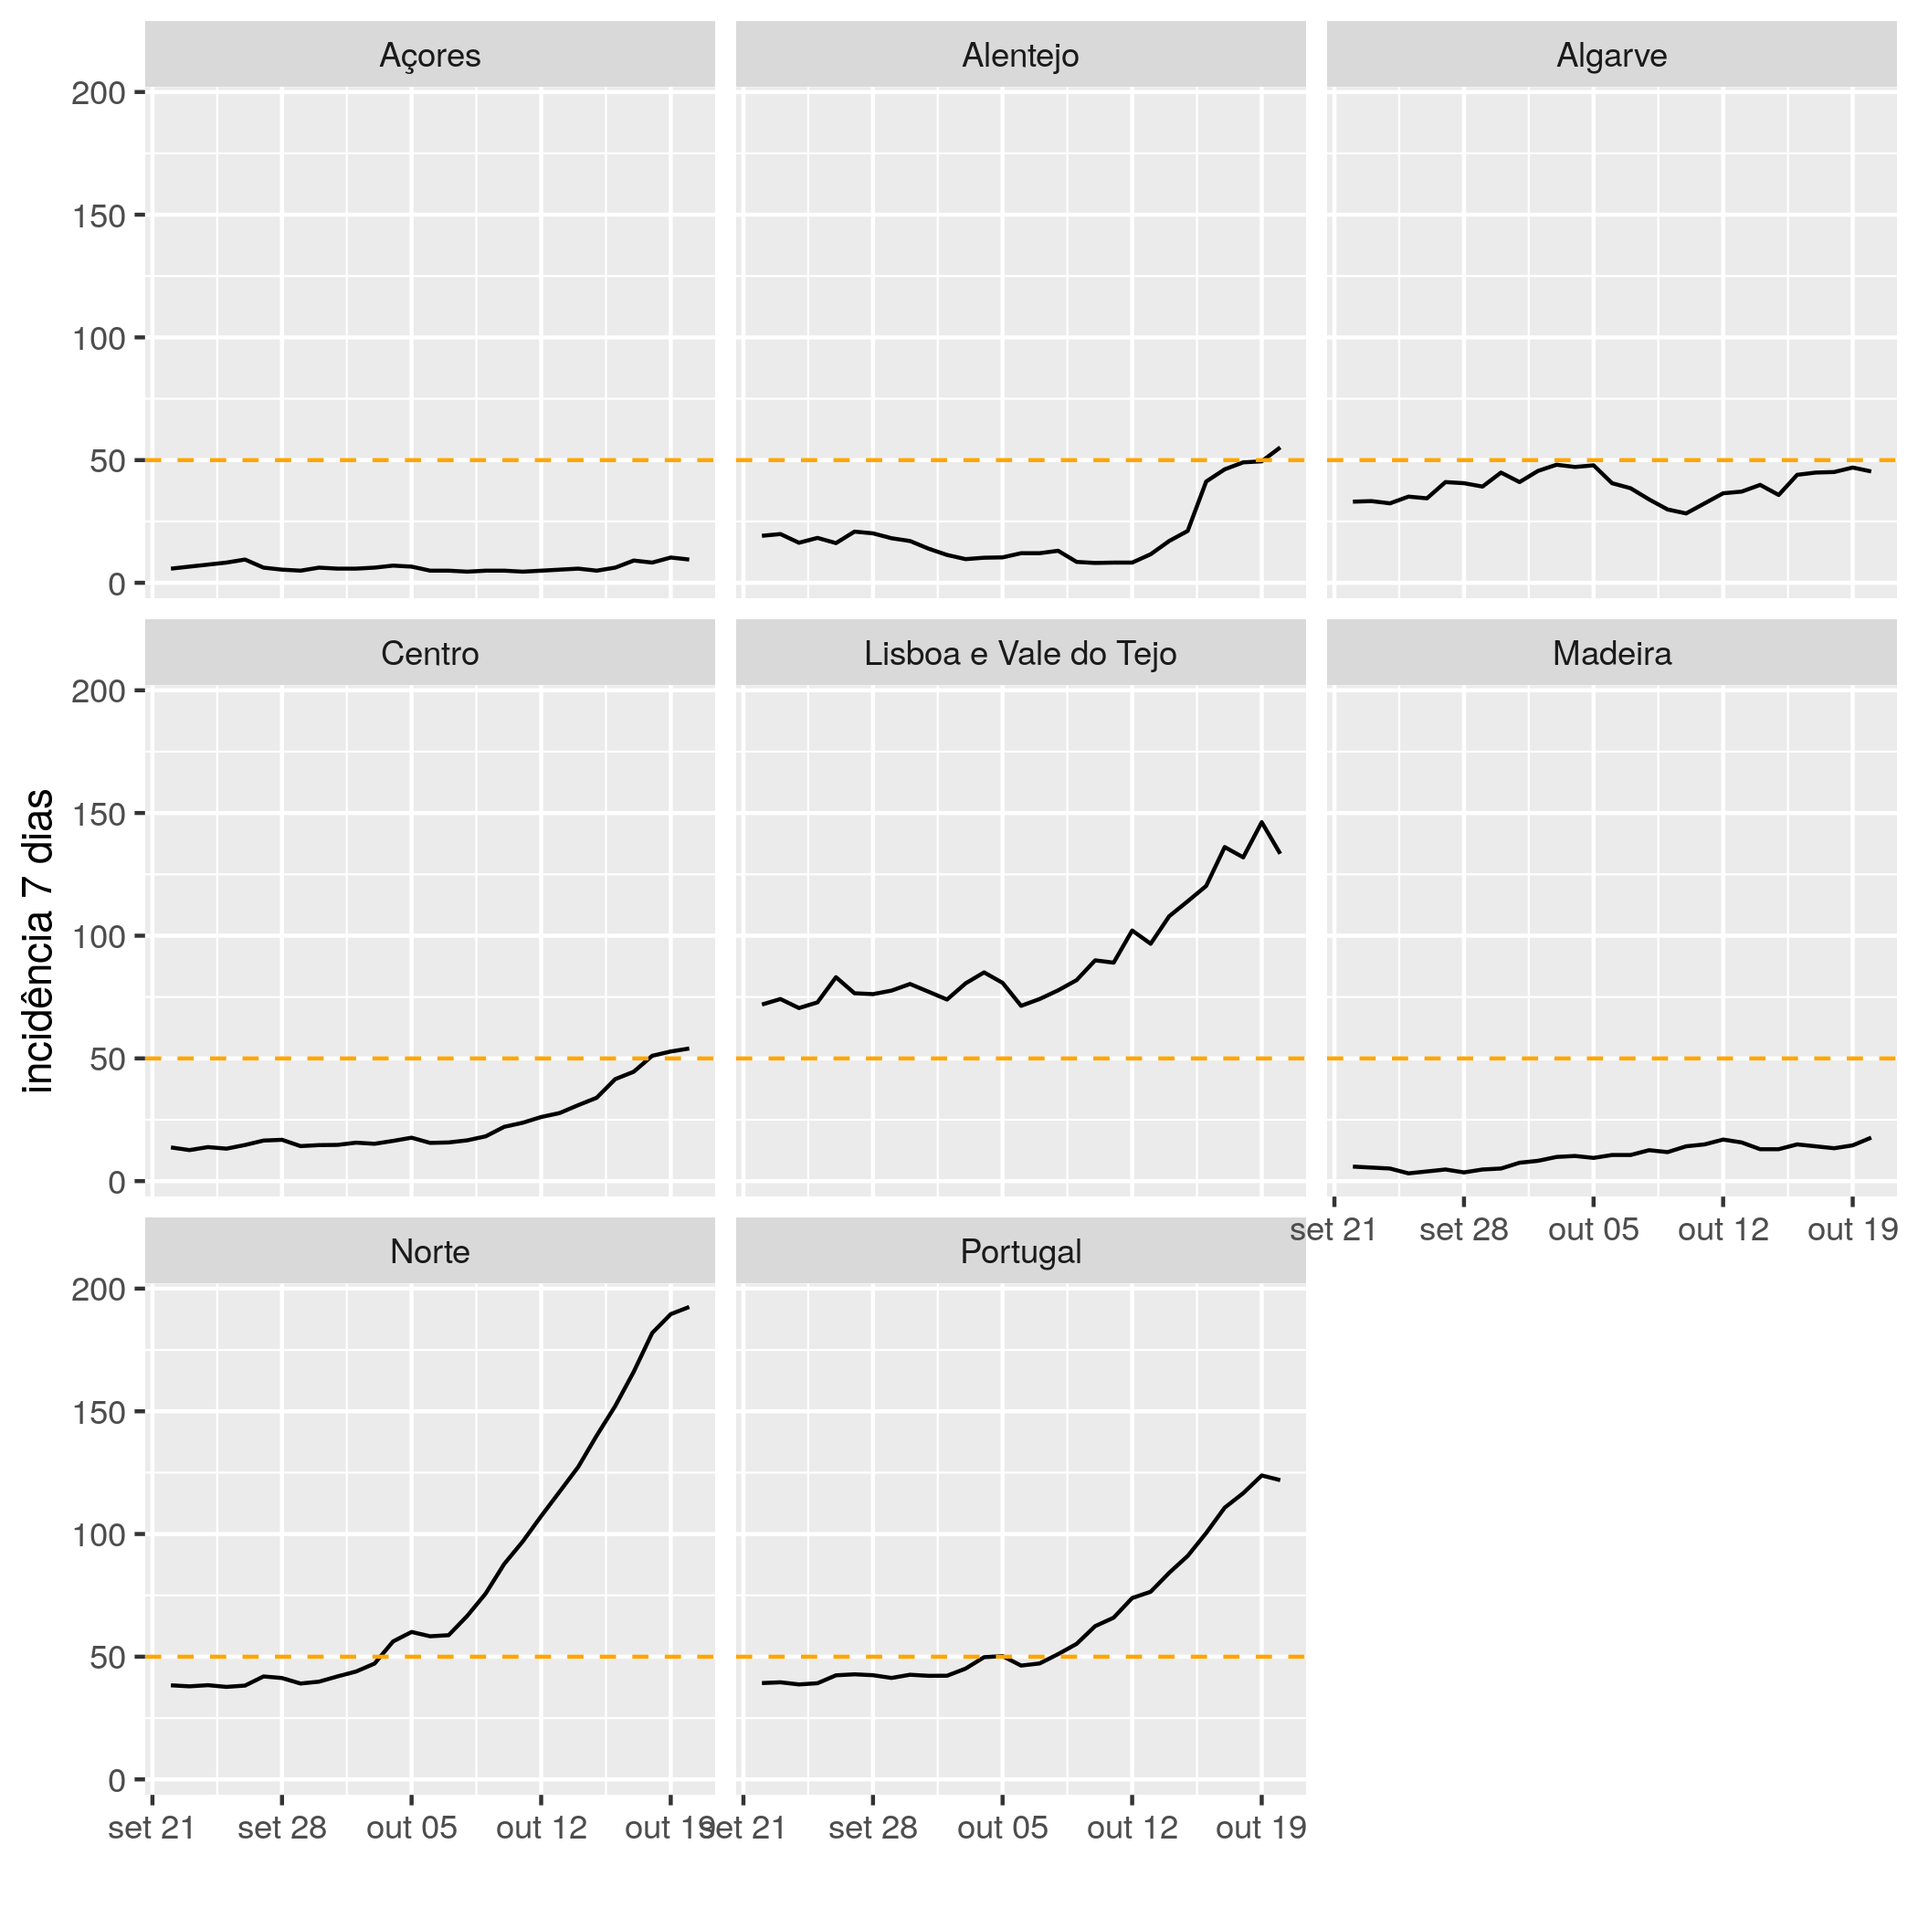
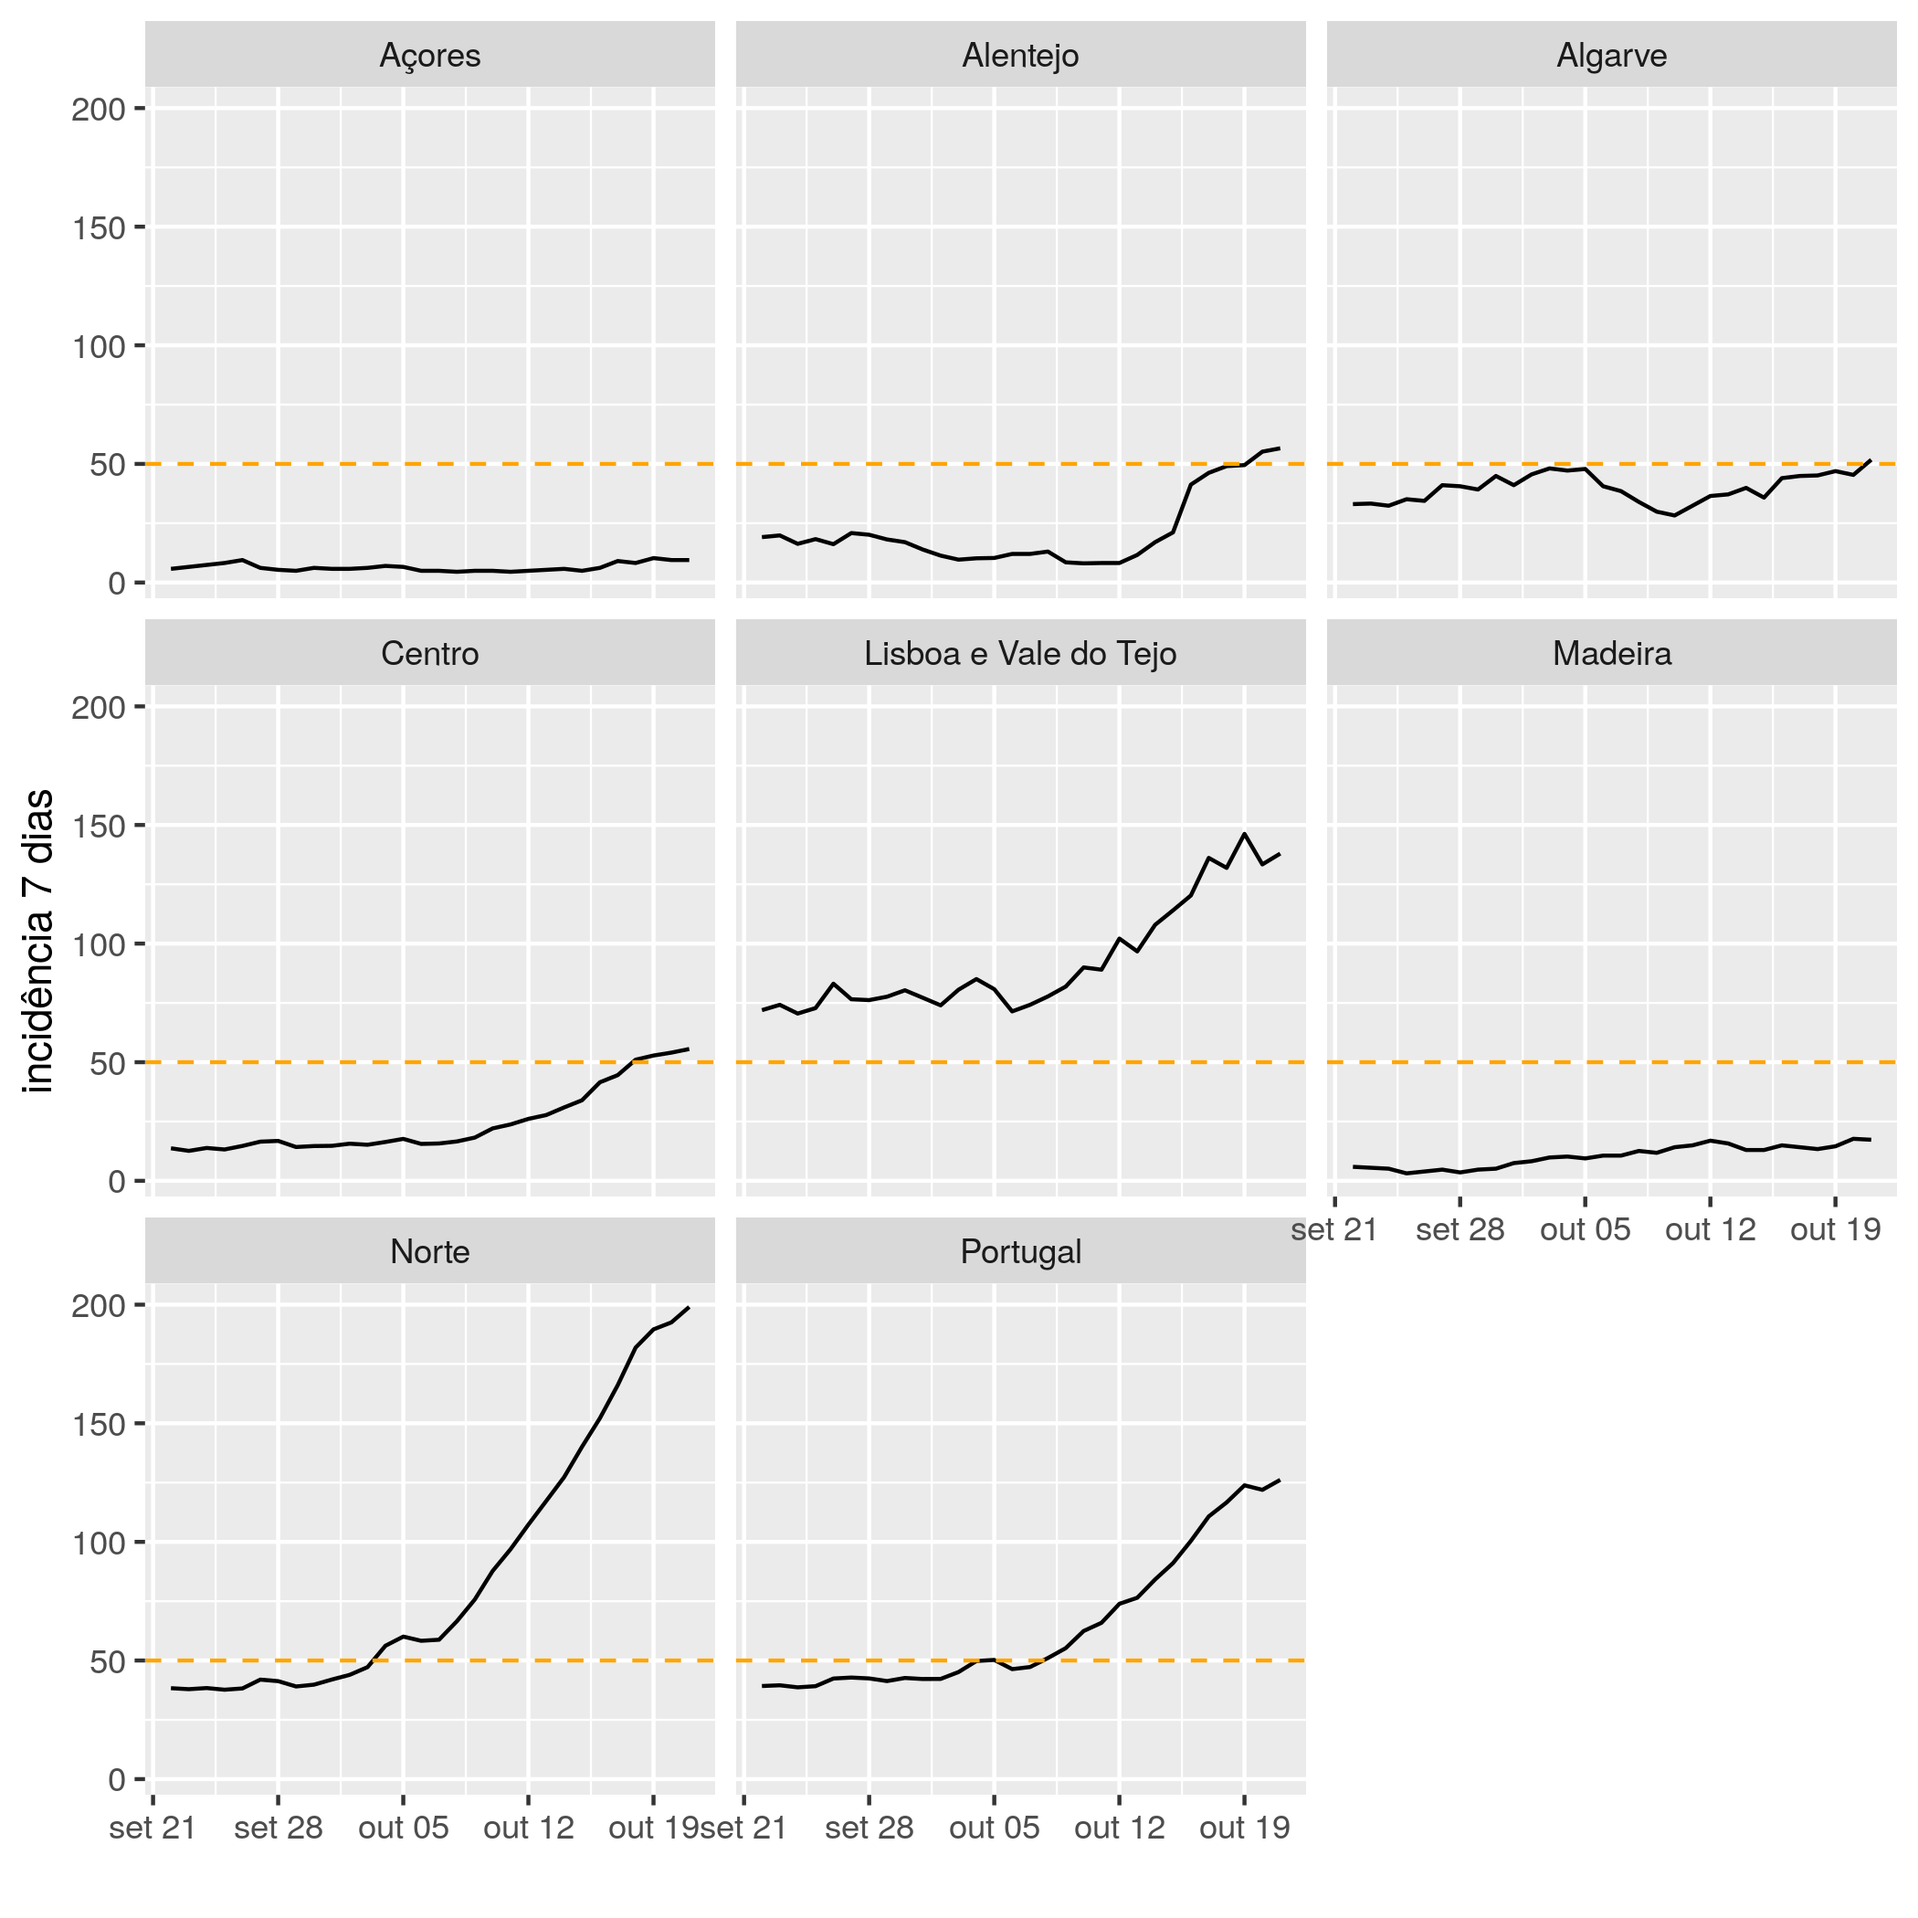
quarta feira

diff --git a/README.md b/README.md
@@ -1,7 +1,7 @@
 # Contexto
 A incidência por 100000 habitantes em 7 dias é o valor de referência para decretar regiões de risco pelas autoridades de saúde alemãs (valor charneira é 50, ie LVT já é região de risco). Gráficos atualizados diariamente. Para ajudar quem quer viajar para a Alemanha ou vir passar férias a Portugal.
 
-Dados mais recentes de 2020-10-20.
+Dados mais recentes de 2020-10-21.
 
 # Incidência por 100000 habitantes em 7 dias
 ## Últimos 30 dias
